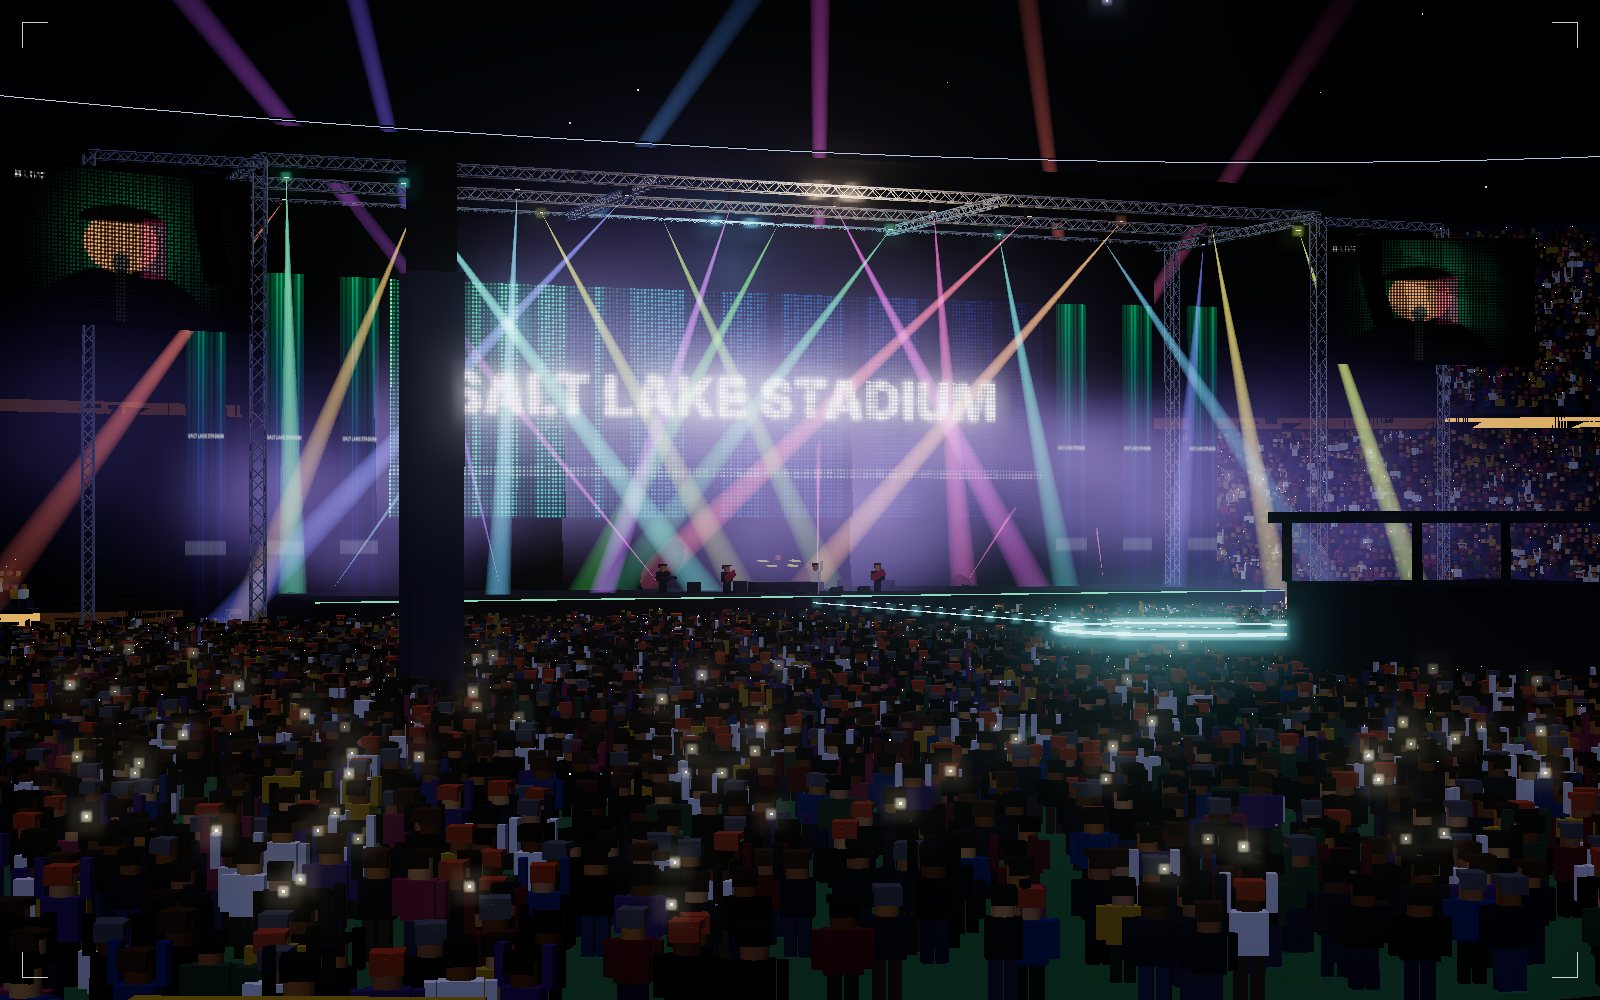
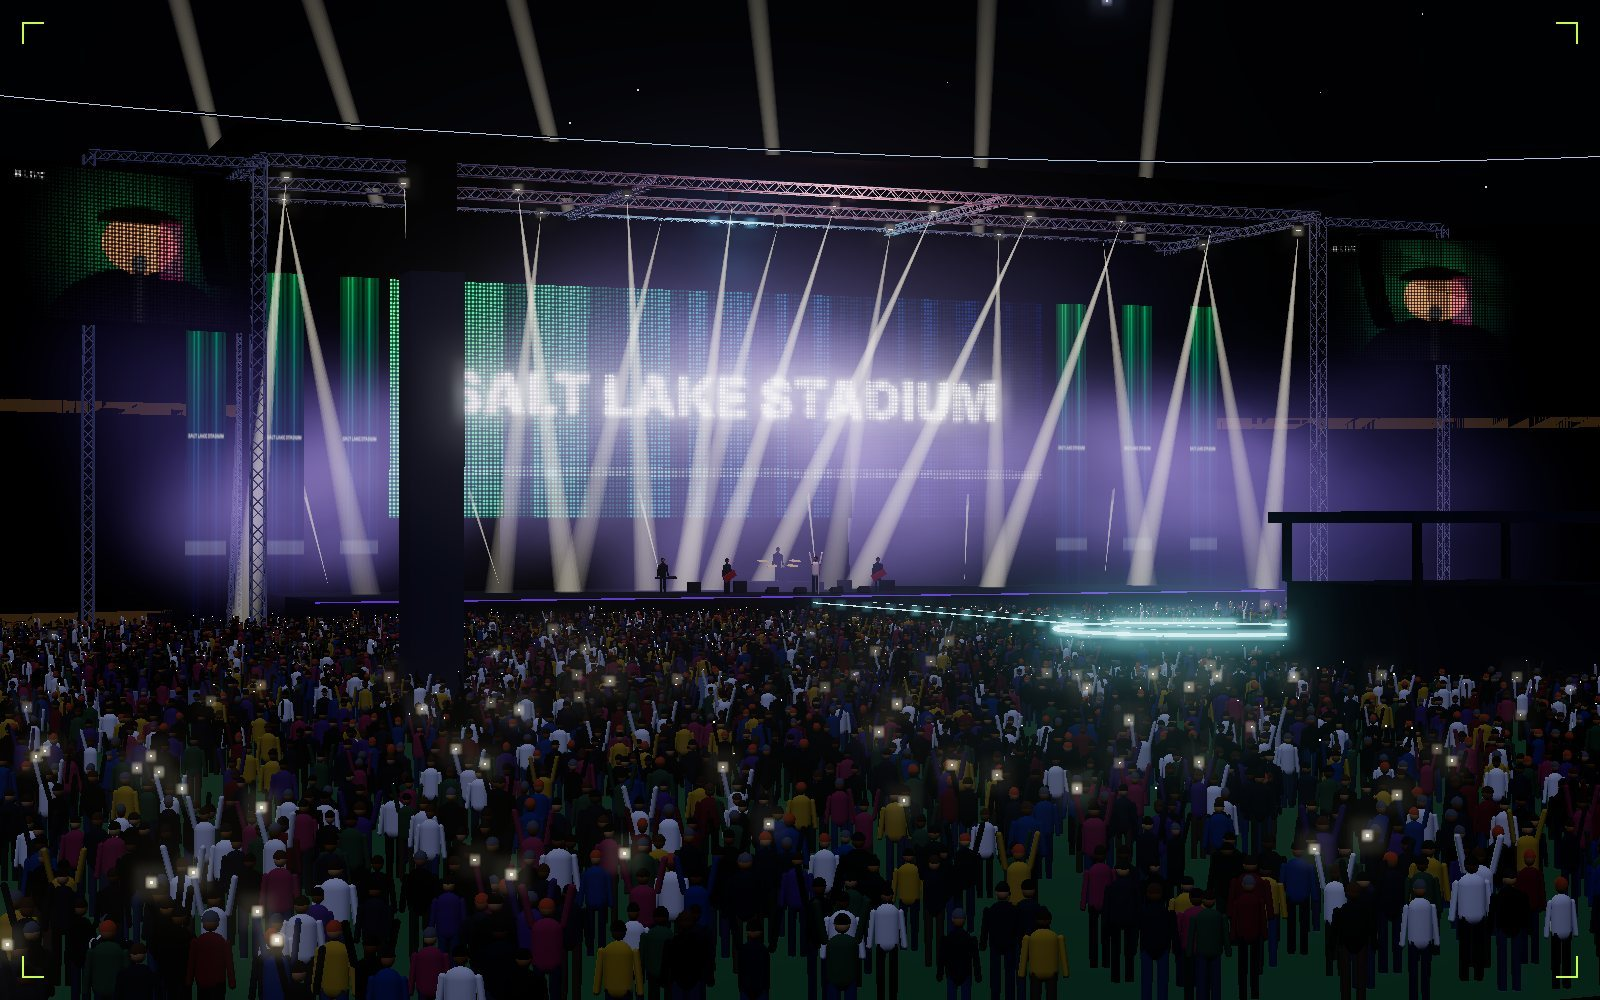
Close seats behind the stage, add the back of the set, human-shaped crowd
Seats were judged against the venue centre, so blocks behind the video
wall stayed on sale. Visibility now uses the real stage position: blocks
level with or behind the wall are closed, seats behind it are not sold,
and blocks far round the side are sold as side-stage, limited view.
The 3D view gains scaffold and drapes behind the wall, wing masking,
flight cases, seat rows and aisles in the stands, and a crowd with
human proportions. Venue pictures re-rendered.

Claude-Session: https://claude.ai/code/session_01Xo8A8ZdFRLsNpRbfo5mzXo

diff --git a/js/scene3d.js b/js/scene3d.js
@@ -16,6 +16,9 @@ const TOY = ['#ffcf3a'];
 const HAIR = ['#14110f', '#2b1d14', '#3d2a1c', '#5a3b25', '#1c1c1c', '#c8572e', '#6b6b6b'];
 
 function box(w, h, d, x, y, z) { const g = new THREE.BoxGeometry(w, h, d); g.translate(x, y, z); return g; }
+function shape(g, { x = 0, y = 0, z = 0, sx = 1, sy = 1, sz = 1, rx = 0, rz = 0 } = {}) {
+  g.scale(sx, sy, sz); if (rx) g.rotateX(rx); if (rz) g.rotateZ(rz); g.translate(x, y, z); return g;
+}
 function merge(geoms) {
   // tiny merge for non-indexed copies
   const parts = geoms.map((g) => g.toNonIndexed());
@@ -193,17 +196,27 @@ export class SeatView {
     for (const s of model.sections) {
       if (s.kind !== 'arc') continue;
       const base = new THREE.Color(s.closed ? '#22242e' : '#3a3f4f').lerp(new THREE.Color(CATS[s.cat].color), s.closed ? 0 : 0.18);
-      const M = 10;
+      const M = 12;
       for (let r = 0; r < s.rowsCount; r++) {
         const dIn = s.d0 + r * ROW_D - ROW_D / 2, dOut = dIn + ROW_D;
         const y = s.base + r * s.rake, yNext = y + s.rake;
-        c.copy(base).multiplyScalar(s.closed ? 1 : (r % 2 ? 0.55 : 0.68));
-        const riser = c.clone().multiplyScalar(0.6);
+        c.set(s.closed ? '#121318' : '#4a4c55').multiplyScalar(r % 2 ? 0.9 : 1);
+        const riser = new THREE.Color(s.closed ? '#0d0e12' : '#2e3038');
+        const concrete = new THREE.Color(s.closed ? '#121318' : '#5d5f68');
+        const seatCol = new THREE.Color(s.closed ? '#121318' : '#262a36').lerp(new THREE.Color(CATS[s.cat].color), 0.22);
+        const seatTop = seatCol.clone().multiplyScalar(1.25);
         for (let i = 0; i < M; i++) {
           const ta = s.t0 + ((s.t1 - s.t0) * i) / M, tb = s.t0 + ((s.t1 - s.t0) * (i + 1)) / M;
           const A = sePoint(a + dIn, b + dIn, n, ta), B = sePoint(a + dIn, b + dIn, n, tb);
           const C = sePoint(a + dOut, b + dOut, n, tb), D = sePoint(a + dOut, b + dOut, n, ta);
-          quad([A[0], y, A[1]], [B[0], y, B[1]], [C[0], y, C[1]], [D[0], y, D[1]], c);
+          const aisle = i === 0;
+          quad([A[0], y, A[1]], [B[0], y, B[1]], [C[0], y, C[1]], [D[0], y, D[1]], aisle ? concrete : c);
+          if (!aisle && !s.closed) {
+            // a row of plastic seat backs near the back of each tread
+            const P = [A[0] + (D[0] - A[0]) * 0.7, A[1] + (D[1] - A[1]) * 0.7], Q = [B[0] + (C[0] - B[0]) * 0.7, B[1] + (C[1] - B[1]) * 0.7];
+            quad([P[0], y + 0.05, P[1]], [Q[0], y + 0.05, Q[1]], [Q[0], y + 0.5, Q[1]], [P[0], y + 0.5, P[1]], seatCol);
+            quad([P[0], y + 0.42, P[1]], [Q[0], y + 0.42, Q[1]], [Q[0] + (C[0] - Q[0]) * 0.4, y + 0.44, Q[1] + (C[1] - Q[1]) * 0.4], [P[0] + (D[0] - P[0]) * 0.4, y + 0.44, P[1] + (D[1] - P[1]) * 0.4], seatTop);
+          }
           const top = r === s.rowsCount - 1 ? y + 2.2 : yNext;
           quad([D[0], y, D[1]], [C[0], y, C[1]], [C[0], top, C[1]], [D[0], top, D[1]], riser);
           if (r === 0) {
@@ -300,6 +313,15 @@ export class SeatView {
 
   // LED wall content: drawn small and scaled up with nearest filtering, then a dark
   // pixel grid on top, so up close it reads as an LED panel rather than a flat picture.
+  _drapeTexture() {
+    if (this._drape) return this._drape;
+    const c = document.createElement('canvas'); c.width = 256; c.height = 16;
+    const g = c.getContext('2d');
+    for (let x = 0; x < 256; x++) { const v = 70 + 45 * Math.sin(x * 0.42) + 18 * Math.sin(x * 1.3 + 1); g.fillStyle = `rgb(${v | 0},${v | 0},${(v + 6) | 0})`; g.fillRect(x, 0, 1, 16); }
+    const t = new THREE.CanvasTexture(c); t.wrapS = THREE.RepeatWrapping; t.repeat.set(6, 1); t.colorSpace = THREE.SRGBColorSpace;
+    return (this._drape = t);
+  }
+
   _screenTexture(w, h, kind) {
     const PX = kind === 'main' ? 192 : 72;
     const cv = document.createElement('canvas'); cv.width = PX * 2; cv.height = Math.max(8, Math.round((PX * h) / w)) * 2;
@@ -530,6 +552,28 @@ export class SeatView {
       }
       this._addMerged(trussGeoms.splice(0), trussMat, 'Stage tower');
 
+      // the back of the set: scaffold behind the video wall, black drapes, side masking and backstage kit.
+      // From side-stage seats this is what you actually see.
+      const backZ = st.zBack - 1.8;
+      const nCol = Math.max(4, Math.round((st.w + 2) / 3.2));
+      for (let i = 0; i <= nCol; i++) { const x = -(st.w + 2) / 2 + (i * (st.w + 2)) / nCol; this._truss([x, 0, backZ], [x, roofY - 0.5, backZ], 0.32, trussGeoms); }
+      for (let yy = 3; yy < roofY - 1; yy += 4.5) this._truss([-(st.w + 2) / 2, yy, backZ], [(st.w + 2) / 2, yy, backZ], 0.28, trussGeoms);
+      for (let i = 0; i <= nCol; i += 2) { const x = -(st.w + 2) / 2 + (i * (st.w + 2)) / nCol; this._truss([x, 0, backZ - 4], [x, roofY * 0.55, backZ], 0.22, trussGeoms); }
+      const drapeTex = this._drapeTexture();
+      const drapeMat = new THREE.MeshLambertMaterial({ map: drapeTex, color: '#3a3a44', side: THREE.DoubleSide });
+      const rear = new THREE.Mesh(new THREE.PlaneGeometry(st.w + 2, roofY), drapeMat); rear.position.set(0, roofY / 2, st.zBack - 0.75); root.add(rear);
+      const legW = st.d * 0.3;
+      for (const sx of [-1, 1]) {
+        const side = new THREE.Mesh(new THREE.PlaneGeometry(legW, roofY - 1), drapeMat); side.rotation.y = Math.PI / 2;
+        side.position.set(sx * (st.w / 2 + 0.6), (roofY - 1) / 2, st.zBack + legW / 2); root.add(side);
+        // flight cases and a dimmer rack stacked in the wings
+        for (let k = 0; k < 5; k++) {
+          const cw = 1.2 + hash01('fc' + k + sx) * 0.8, chh = 0.8 + hash01('fh' + k + sx) * 0.7;
+          const fc = new THREE.Mesh(new THREE.BoxGeometry(cw, chh, 0.9), new THREE.MeshLambertMaterial({ color: k % 2 ? '#202229' : '#2b2d36' }));
+          fc.position.set(sx * (st.w / 2 + 2.5 + (k % 3) * 1.6), chh / 2, st.zBack - 3 - Math.floor(k / 3) * 1.5); root.add(fc);
+        }
+      }
+      this._addMerged(trussGeoms.splice(0), trussMat, 'Stage set');
       // main LED wall with a black border, and LED columns either side
       const wall = new THREE.Mesh(new THREE.BoxGeometry(st.w + 2, roofY, 0.6), blackMat); wall.position.set(0, roofY / 2, st.zBack - 0.4); root.add(wall);
       const scr = new THREE.Mesh(new THREE.PlaneGeometry(st.screenW, st.screenH), new THREE.MeshBasicMaterial({ map: this._screenTexture(st.screenW, st.screenH, 'main'), toneMapped: false }));
@@ -631,13 +675,17 @@ export class SeatView {
 
   // ---------- crowd ----------
   _personGeoms() {
+    // rounded bodies with human proportions (about 1.72 m tall before per-person scaling)
     if (this._pg) return this._pg;
-    const legs = merge([box(0.15, 0.55, 0.2, -0.095, 0.275, 0), box(0.15, 0.55, 0.2, 0.095, 0.275, 0)]);
-    const body = merge([box(0.44, 0.5, 0.25, 0, 0.8, 0), box(0.12, 0.44, 0.14, -0.29, 0.82, 0), box(0.12, 0.44, 0.14, 0.29, 0.82, 0)]);
-    const bodyUp = merge([box(0.44, 0.5, 0.25, 0, 0.8, 0), box(0.12, 0.46, 0.14, -0.27, 1.26, 0.04), box(0.12, 0.46, 0.14, 0.27, 1.26, 0.04)]);
-    const headG = new THREE.CylinderGeometry(0.15, 0.15, 0.28, 10, 1, false); headG.translate(0, 1.2, 0);
-    const head = merge([headG, box(0.12, 0.06, 0.12, 0, 1.075, 0)]);
-    const hair = merge([box(0.33, 0.09, 0.33, 0, 1.37, -0.01), box(0.33, 0.16, 0.06, 0, 1.28, -0.15)]);
+    const leg = (x) => shape(new THREE.CylinderGeometry(0.08, 0.062, 0.9, 5, 1, true), { x, y: 0.45 });
+    const legs = merge([leg(-0.095), leg(0.095)]);
+    const torso = () => shape(new THREE.CapsuleGeometry(0.16, 0.4, 2, 7), { y: 1.12, sx: 1.18, sz: 0.66 });
+    const armDown = (sx) => shape(new THREE.CapsuleGeometry(0.048, 0.5, 1, 4), { x: sx * 0.235, y: 1.1, rz: sx * 0.12 });
+    const armUp = (sx) => shape(new THREE.CapsuleGeometry(0.048, 0.52, 1, 4), { x: sx * 0.24, y: 1.62, z: 0.05, rz: -sx * 0.2, rx: -0.15 });
+    const body = merge([torso(), armDown(-1), armDown(1)]);
+    const bodyUp = merge([torso(), armUp(-1), armUp(1)]);
+    const head = shape(new THREE.SphereGeometry(0.105, 8, 6), { y: 1.6, sx: 0.88, sy: 1.15 });
+    const hair = shape(new THREE.SphereGeometry(0.112, 8, 4, 0, Math.PI * 2, 0, Math.PI * 0.52), { y: 1.62, z: -0.012, sx: 0.9, sy: 1.08 });
     this._pg = { legs, body, bodyUp, head, hair };
     return this._pg;
   }
@@ -723,7 +771,7 @@ export class SeatView {
       const [x, y, z] = spots[i];
       const yaw = Math.atan2(target[0] - x, target[1] - z) + (hash01('y' + i) - 0.5) * 0.5;
       q.setFromAxisAngle(up, yaw); p.set(x, y, z);
-      const s = 1.08 + hash01('h' + i) * 0.18; sc.set(s, s, s);
+      const s = 0.93 + hash01('h' + i) * 0.13, wide = 0.9 + hash01('w' + i) * 0.24; sc.set(s * wide, s, s * wide);
       m4.compose(p, q, sc);
       legs.setMatrixAt(i, m4); head.setMatrixAt(i, m4); hair.setMatrixAt(i, m4);
       legs.setColorAt(i, col.set(PANTS[Math.floor(hash01('pa' + i) * PANTS.length)]));
@@ -734,7 +782,7 @@ export class SeatView {
       const shirt = col.set(SHIRTS[Math.floor(hash01('sh' + i) * SHIRTS.length)]);
       if (isUp[i]) {
         bodyUp.setMatrixAt(ui, m4); bodyUp.setColorAt(ui++, shirt);
-        if (hash01('ph' + i) < 0.4 && !(focus && Math.hypot(x - focus.x, z - focus.z) < 4)) { const fwd = 0.1; phones.push(x + Math.sin(yaw) * fwd + Math.cos(yaw) * 0.27 * s, y + 1.52 * s, z + Math.cos(yaw) * fwd - Math.sin(yaw) * 0.27 * s); }
+        if (hash01('ph' + i) < 0.4 && !(focus && Math.hypot(x - focus.x, z - focus.z) < 4)) { const fwd = 0.1; phones.push(x + Math.sin(yaw) * fwd + Math.cos(yaw) * 0.3 * s, y + 1.95 * s, z + Math.cos(yaw) * fwd - Math.sin(yaw) * 0.3 * s); }
       } else { bodyDown.setMatrixAt(di, m4); bodyDown.setColorAt(di++, shirt); }
     }
     for (const m of group.children) { m.instanceMatrix.needsUpdate = true; if (m.instanceColor) m.instanceColor.needsUpdate = true; }

diff --git a/js/model.js b/js/model.js
@@ -189,13 +189,18 @@ function buildBowlSections(model, venue, layoutId) {
       const tm = (t0 + t1) / 2;
       const [cx, cz] = sePoint(a + d0, b + d0, n, tm);
       const phi = phiOf(cx, cz);
-      const closedLimit = venue.kind === 'arena' ? 138 : 146;
-      const closed = layoutId !== 'center' && phi > closedLimit;
+      // Seats are judged against the real stage, not the venue centre: anything level with or
+      // behind the video wall looks at the back of the wall, so those blocks are not sold.
+      // Blocks between the wall and the stage front are sold as side-stage with a limited view.
+      const st = model.stage;
+      const [mx, mz] = sePoint(a + (d0 + dEnd) / 2, b + (d0 + dEnd) / 2, n, tm);
+      const closed = st.type === 'end' && mz < st.zBack + 6;
+      const sideStage = st.type === 'end' && !closed && Math.atan2(Math.abs(mx), mz - st.zBack) > (65 * Math.PI) / 180;
       const id = String(tier.prefix * 100 + k + 1);
       const sec = {
         id, label: 'Section ' + id, kind: 'arc', tier: tier.name, tierIdx: ti,
         t0, t1, d0, dEnd, base: tier.base, rake: tier.rake, rowsCount: tier.rows,
-        cat: bowlCategory(ti, tiers.length, phi, layoutId, venue.kind), closed, phi,
+        cat: sideStage ? 'BRONZE' : bowlCategory(ti, tiers.length, phi, layoutId, venue.kind), closed, sideStage, phi,
         availability: closed ? 'closed' : availabilityFor(venue.id + layoutId + id),
       };
       const ring = (d) => (u) => sePoint(a + d, b + d, n, t0 + (t1 - t0) * u);
@@ -213,7 +218,7 @@ function buildBowlSections(model, venue, layoutId) {
           const cnt = Math.max(4, Math.floor(arcLength(smp) / SEAT_W));
           const pts = seatsAlong(smp, 0, cnt);
           const label = rowLabel(r);
-          rows.push({ label, index: r, seats: pts.map((p, i) => ({ n: i + 1, x: p[0], y, z: p[1], sold: hash01(id + label + i) < rate })) });
+          rows.push({ label, index: r, seats: pts.map((p, i) => ({ n: i + 1, x: p[0], y, z: p[1], sold: hash01(id + label + i) < rate || (st.type === 'end' && p[1] < st.zBack + 3) })) });
         }
         sec._rows = rows;
         return rows;
@@ -312,13 +317,17 @@ export function viewStats(model, p) {
   const screenDist = Math.hypot(horiz, eyeY - (st.screenY + st.screenH / 2));
   const tvInches = Math.round(((2.5 * st.screenW) / screenDist / 0.8716 / 0.0254));
   const offCentre = st.type === 'center' ? 0 : p.x;
-  return { dist, angle, elev, height: p.y, offCentre, tvInches, screenDist, horiz };
+  // how far round the side of the main video wall you are (0 = square on, 90+ = edge-on or behind)
+  const screenAngle = st.type === 'center' ? 0 : (Math.atan2(Math.abs(p.x), p.z - st.zBack) * 180) / Math.PI;
+  return { dist, angle, elev, height: p.y, offCentre, tvInches, screenDist, horiz, screenAngle };
 }
 
 export function warningsFor(model, stats, opts = {}) {
   const w = [];
   const st = model.stage;
-  if (st.type === 'end' && stats.angle > 68) w.push({ level: 'warn', text: 'Side view. You see the stage from the side and will watch most of it on the side screens.' });
+  if (st.type === 'end' && stats.screenAngle > 90) w.push({ level: 'bad', text: 'Behind the stage line. You look at the back of the video wall and stage set, so you cannot see the show.' });
+  else if (st.type === 'end' && stats.screenAngle > 72) w.push({ level: 'bad', text: 'Side-stage, limited view. The main video wall is almost edge-on from here; you see the band side-on and watch the side screens.' });
+  else if (st.type === 'end' && stats.angle > 68) w.push({ level: 'warn', text: 'Side view. You see the stage from the side and will watch most of it on the side screens.' });
   else if (st.type === 'end' && stats.angle > 45) w.push({ level: 'info', text: 'Angled view of the stage. The main screen looks a little squashed from here.' });
   if (stats.dist > 120) w.push({ level: 'warn', text: 'Far from the stage. Performers look tiny, so the screens do the work.' });
   if (stats.elev > 18) w.push({ level: 'info', text: 'High up. A great overview of the light show, with steep stairs.' });

diff --git a/js/app.js b/js/app.js
@@ -90,7 +90,7 @@ function openSectionSheet(sec) {
   sheet.hidden = false;
   sheet.innerHTML = `
     <div class="sheet-head">
-      <div><div class="eyebrow">${esc(sec.tier)} · ${esc(CATS[sec.cat].label)}</div><h3>${esc(sec.label)}</h3>
+      <div><div class="eyebrow">${esc(sec.tier)} · ${esc(CATS[sec.cat].label)}${sec.sideStage ? ' · Side-stage, limited view' : ''}</div><h3>${esc(sec.label)}</h3>
       <div class="meta">${fmtINR(priceOf(m.venue, sec.cat))} each · ${free.toLocaleString('en-IN')} of ${total.toLocaleString('en-IN')} seats free</div></div>
       <button class="icon-btn" type="button" id="sheet-close" aria-label="Close section">✕</button>
     </div>

diff --git a/README.md b/README.md
@@ -36,7 +36,7 @@ A fixed sticker spins faster while you scroll and opens a seat view (from Airbor
 
 **Look:** a night palette of ink and cream, with acid lime, hot pink and electric violet as big rounded colour panels. Display type is Archivo at its heaviest weight and widest width, in caps, mixed with Instrument Serif italic letters. Body text is Geist and data is Geist Mono, with a fine film grain over everything.
 
-**Seat view realism:** the camera aims and zooms so the whole stage is in frame from any seat. The stage has box truss towers and roof grid, an LED main wall with visible pixel pitch, LED columns, flown IMAG side screens with a live camera feed, curved line-array PA hangs, subs, a barricade, a blocky band with drum riser and amps, moving-head fixtures whose beams change cues every 8 seconds, haze, and bloom post-processing (three.js UnrealBloomPass). The crowd dresses dark like a real gig crowd and holds up phone lights.
+**Seat view realism:** the camera aims and zooms so the whole stage is in frame from any seat. The stage has box truss towers and roof grid, an LED main wall with visible pixel pitch, LED columns, flown IMAG side screens with a live camera feed, curved line-array PA hangs, subs, a barricade, a band with drum riser and amps, moving-head fixtures whose beams change cues every 8 seconds, haze, and bloom post-processing (three.js UnrealBloomPass). The back of the set is built too: scaffold behind the video wall, black rear and side drapes, and flight cases in the wings, so side-stage seats see what they would really see. The crowd has human proportions (rounded bodies, varied heights and builds) and dresses dark like a real gig crowd, holding up phone lights. The stands have rows of seat backs, aisles and concrete steps.
 
 **Images:** the venue images in `assets/venues/` are 1600×1000 renders from Seatify's own 3D scene, so there are no licensing issues. Swap in licensed photos with the same file names if you want real venue shots.
 
@@ -75,6 +75,8 @@ Add an entry to `VENUES` in `js/data/venues.js`.
 ## Venue accuracy
 
 **Every layout is approximate.** Shapes and capacities come from public information (venue fact sheets, Wikipedia, and news coverage of recent concerts). Section numbers, row counts, prices and enclosure names are made up, because promoters redraw the plan for every show. Before a real launch, each show needs the promoter's official seating plan.
+
+**Which seats can see the stage** is worked out from where the stage actually is, not from the middle of the venue. For an end stage, any block whose middle sits level with or behind the video wall is closed (no view), and any seat behind that line is not sold. Blocks more than 65° round the side of the video wall are sold as *side-stage, limited view* at the lowest price, with a warning in the seat view. Real tours close different blocks for each stage design, so this still needs checking against each show's plan.
 
 | Venue | City | Type | Capacity used | Confidence |
 | --- | --- | --- | --- | --- |
